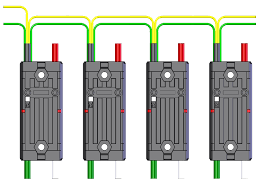
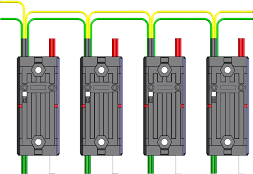
Remove backgrounds from hardware/sensors

diff --git a/source/docs/hardware/sensors/lidar.rst b/source/docs/hardware/sensors/lidar.rst
@@ -13,7 +13,7 @@ There are two types of LIDAR sensors commonly used in current FRC: 1-dimensional
 1-Dimensional LIDAR
 ^^^^^^^^^^^^^^^^^^^
 
-.. image:: images/lidar/1-dimentional-lidar.jpg
+.. image:: images/lidar/1-dimentional-lidar.png
 
 A 1-dimensional (1D) LIDAR sensor works much like an ultrasonic sensor - it measures the distance to the nearest object more or less along a line in front of it.  1D LIDAR sensors can often be more-reliable than ultrasonics, as they have narrower "beam profiles" and are less susceptible to interference. Pictured above is the `Garmin LIDAR-Lite Optical Distance Sensor <https://www.andymark.com/products/lidar-lite-3>`__.
 
@@ -22,7 +22,7 @@ A 1-dimensional (1D) LIDAR sensor works much like an ultrasonic sensor - it meas
 2-Dimensional LIDAR
 ^^^^^^^^^^^^^^^^^^^
 
-.. image:: images/lidar/2-dimentional-lidar.jpg
+.. image:: images/lidar/2-dimentional-lidar.png
 
 A 2-dimensional (2D) LIDAR sensor measures distance in all directions in a plane.  Generally, this is accomplished (more-or-less) by simply placing a 1D LIDAR sensor on a turntable that spins at a constant rate.
 

diff --git a/source/docs/hardware/sensors/triangulating-rangefinders.rst b/source/docs/hardware/sensors/triangulating-rangefinders.rst
@@ -1,9 +1,9 @@
 Triangulating Rangefinders
 ==========================
 
-.. image:: images/triangulating-rangefinders/infrared-proximity-sensor.jpg
+.. image:: images/triangulating-rangefinders/infrared-proximity-sensor.png
 
-Triangulating rangefinders (often called "IR rangefinders," as they commonly function in the infrared wavelength band) are another common type of rangefinder used in FRC.
+Triangulating rangefinders (often called "IR rangefinders," as they commonly function in the infrared wavelength band) are another common type of rangefinder used in FRC. The sensor shown above is a `common Sharp-brand sensor <https://www.sparkfun.com/products/242>`__
 
 Unlike :doc:`LIDAR <lidar>`, triangulating rangefinders do not measure the time between the emission of a pulse and the receiving of a reflection.  Rather, most IR rangefinders work by emitting a constant beam at a slight angle, and measuring the position of the reflected beam.  The closer the point of contact of the reflected beam to the emitter, the closer the object to the sensor.
 

diff --git a/source/docs/hardware/sensors/encoders-hardware.rst b/source/docs/hardware/sensors/encoders-hardware.rst
@@ -43,7 +43,7 @@ On-shaft encoders (such as the `AMT103-V <https://www.cuidevices.com/product/mot
 Magnetic encoders
 ^^^^^^^^^^^^^^^^^
 
-.. image:: images/encoders-hardware/ctre-magnetic-encoder.jpg
+.. image:: images/encoders-hardware/ctre-magnetic-encoder.png
   :width: 400
 
 Magnetic encoders require no mechanical coupling to the shaft at all; rather, they track the orientation of a magnet fixed to the shaft.  The `CTRE Mag Encoder <https://www.ctr-electronics.com/srx-magnetic-encoder.html>`__ is a popular option, with many FRC products offering built-in mounting options for it.  While the no-contact nature of magnetic encoders can be handy, they often require precise construction in order to ensure that the magnet is positioned correctly with respect to the encoder.

diff --git a/source/docs/hardware/sensors/proximity-switches.rst b/source/docs/hardware/sensors/proximity-switches.rst
@@ -48,7 +48,7 @@ While magnetic proximity switches are often more reliable than their mechanical 
 Inductive Proximity Switches
 ~~~~~~~~~~~~~~~~~~~~~~~~~~~~
 
-.. image:: images/proximity-switches-hardware/inductive-proximity-switch.jpg
+.. image:: images/proximity-switches-hardware/inductive-proximity-switch.png
 
 Inductive proximity switches are activated when a conductor of any sort comes within a certain range of the sensor.  Like magnetic proximity switches, they are "no-contact" switches.
 
